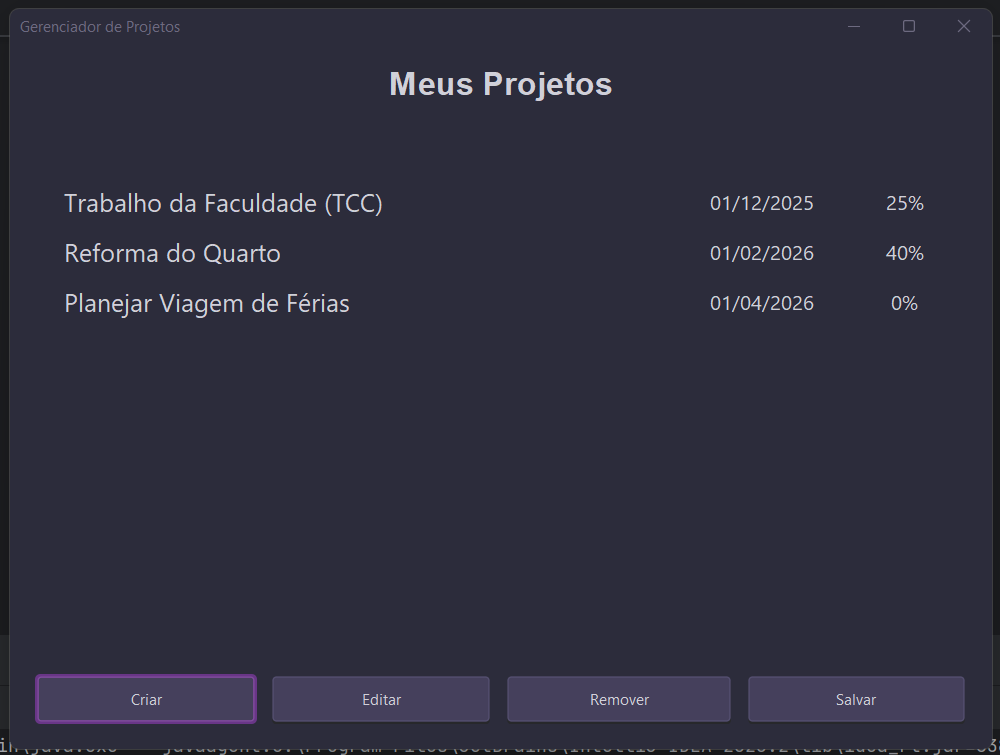
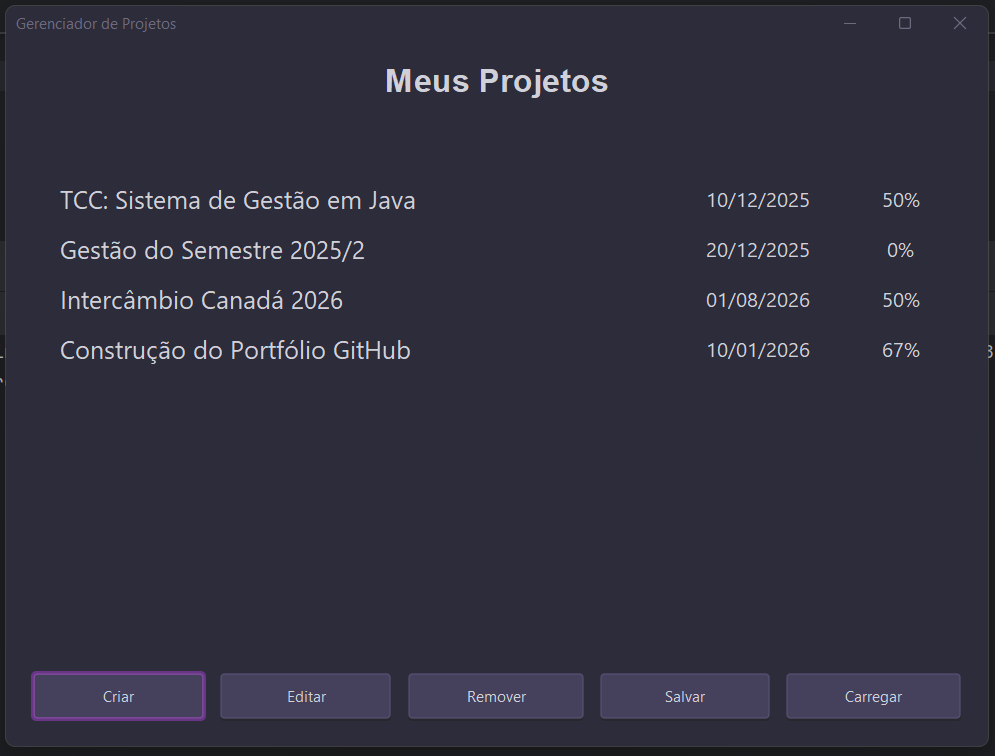
atualiza a documentação do projeto final
atualiza a documentação do projeto

atualiza a documentação do projeto

atualiza a documentação do projeto final

atualiza a documentação do projeto final

atualiza a documentação do projeto final

diff --git a/src/main/java/Main.java b/src/main/java/Main.java
@@ -45,7 +45,7 @@ public class Main {
         try {
             // Para a interface textual: "textual"
             // Para a interface gráfica: "gui"
-            ViewFactoryProvider.configure("textual");
+            ViewFactoryProvider.configure("gui");
 
             IViewFactory factory = ViewFactoryProvider.getFactory();
 

diff --git a/README.md b/README.md
@@ -1,5 +1,7 @@
 # Gerenciador de Projetos Pessoal
 
+[![GitHub Repo](https://img.shields.io/badge/GitHub-Manuelakist/ProjectManager-black?logo=github)](https://github.com/Manuelakist/ProjectManager)
+
 Este é um sistema completo de Gerenciamento de Projetos desenvolvido em Java como trabalho final para a disciplina de Programação Orientada a Objetos.
 
 O objetivo principal deste projeto foi construir uma aplicação robusta do zero, demonstrando domínio prático de arquitetura de software, separação de responsabilidades e aplicação correta de múltiplos Padrões de Projeto (Design Patterns).
@@ -11,6 +13,7 @@ O sistema permite o gerenciamento completo de múltiplos projetos e suas tarefas
 * **CRUD de Tarefas:** Adicionar e gerenciar diferentes tipos de tarefas dentro de cada projeto.
 * **Cálculo Automático:** Acompanhamento em tempo real do progresso do projeto (% concluída).
 * **Persistência:** Todos os dados são salvos e carregados automaticamente em um arquivo binário (`dados.dat`) usando Serialização Java.
+* **Importação de Dados:** Funcionalidade para importar projetos de arquivos externos de backup (`.dat`) através de um seletor de arquivos.
 
 ## Arquitetura e Padrões de Projeto
 
@@ -28,7 +31,7 @@ Os seguintes Padrões de Projeto foram aplicados:
 
 3.  **DAO (Data Access Object) e Strategy**
     * **Onde:** `IPersistenceDAO` e `SerializedProjectDAO`.
-    * **Por que:** A interface `IPersistenceDAO` define um contrato (Strategy) para salvar os dados. O `ProjectManager` não sabe *como* os dados são salvos, ele apenas usa a estratégia fornecida. Neste projeto, utilizamos a **Serialização Nativa do Java** (`SerializedProjectDAO`) para persistir o estado completo dos objetos de forma eficiente, conforme visto em aula.
+    * **Por que:** A interface `IPersistenceDAO` define um contrato (Strategy) para salvar os dados. O `ProjectManager` não sabe *como* os dados são salvos, ele apenas usa a estratégia fornecida. Neste projeto, utilizamos a **Serialização Nativa do Java** (`SerializedProjectDAO`) para persistir o estado completo dos objetos de forma eficiente.
 
 4.  **Factory Method (Fábrica Simples)**
     * **Onde:** `TaskFactory` no pacote `model`.
@@ -55,6 +58,8 @@ Abaixo está o detalhamento de como cada requisito obrigatório da avaliação f
     * Todos os atributos são `private`. O acesso e modificação são feitos estritamente via Getters e Setters com validação de dados (ex: não permitir datas nulas ou nomes vazios).
 * **Herança e Polimorfismo:**
     * O sistema trata todas as tarefas de forma polimórfica. O método `getProgressPercentage()` do Projeto itera sobre uma lista genérica de `Task` sem precisar saber qual é a subclasse específica. A interface também usa polimorfismo para exibir detalhes específicos de cada tarefa na tabela.
+* **Manipulação de Arquivos e I/O:**
+    * O sistema implementa a leitura de arquivos externos utilizando `JFileChooser` na interface gráfica e entrada de caminho no console, permitindo importar dados de backups localizados fora da pasta do projeto.
 
 ## Demonstração do Projeto
 
@@ -67,7 +72,6 @@ Utiliza a biblioteca **FlatLaf** (Dark Purple) para oferecer uma experiência vi
 ![Menu Principal Gráfico](docs/mainMenu.png)
 
 #### Detalhes do Projeto (Gerenciamento de Tarefas)
-Pode ser acessado clicando duas vezes em um projeto.
 ![Detalhes do Projeto Gráfico](docs/project.png)
 
 ---
@@ -87,8 +91,9 @@ Bem-vindo ao Gerenciador de Projetos!
 4. Salvar dados agora
 5. Editar um projeto
 6. Excluir um projeto
+7. Importar projetos de arquivo externo
 0. Sair
-Escolha uma opção:
+Escolha uma opção: _
 ```
 
 #### Listagem e Detalhes
@@ -122,14 +127,15 @@ A estrutura de classes do projeto pode ser visualizada abaixo:
 ## Como Executar
 
 1.  **Pré-requisitos:** Ter o Java (JDK 11 ou superior) instalado.
-2.  **Bibliotecas:** O projeto depende da biblioteca `FlatLaf` (para o tema visual). O arquivo `.jar` já está incluso na pasta `lib/` e configurado no projeto.
+2.  **Bibliotecas:** O projeto depende da biblioteca `FlatLaf` (para o tema visual). O arquivo `.jar` já está configurado no projeto.
 3.  **Executando no IntelliJ:**
     * Abra a pasta do projeto.
-    * Execute a classe `src/Main.java`.
-    * Para carregar o projeto com os dados de exemplo, o arquivo `dados.dat` deve estar imediatamente dentro da pasta mais externa em que o projeto for executado.
+    * Execute a classe `src/main/java/Main.java`.
+    * Para carregar o projeto com os dados de exemplo, o arquivo `dados.dat` deve estar imediatamente dentro da pasta `data` for executado.
 4.  **Alternando entre Texto e Gráfico:**
-    * Para mudar a interface, edite o arquivo `src/Main.java`:
+    * Para mudar a interface, edite o arquivo `src/main/java/Main.java`:
     ```java
-    // Use "gui" para Interface Gráfica ou "textual" para Console
+    // Para a interface textual: "textual"
+    // Para a interface gráfica: "gui"
     ViewFactoryProvider.configure("gui");
     ```
